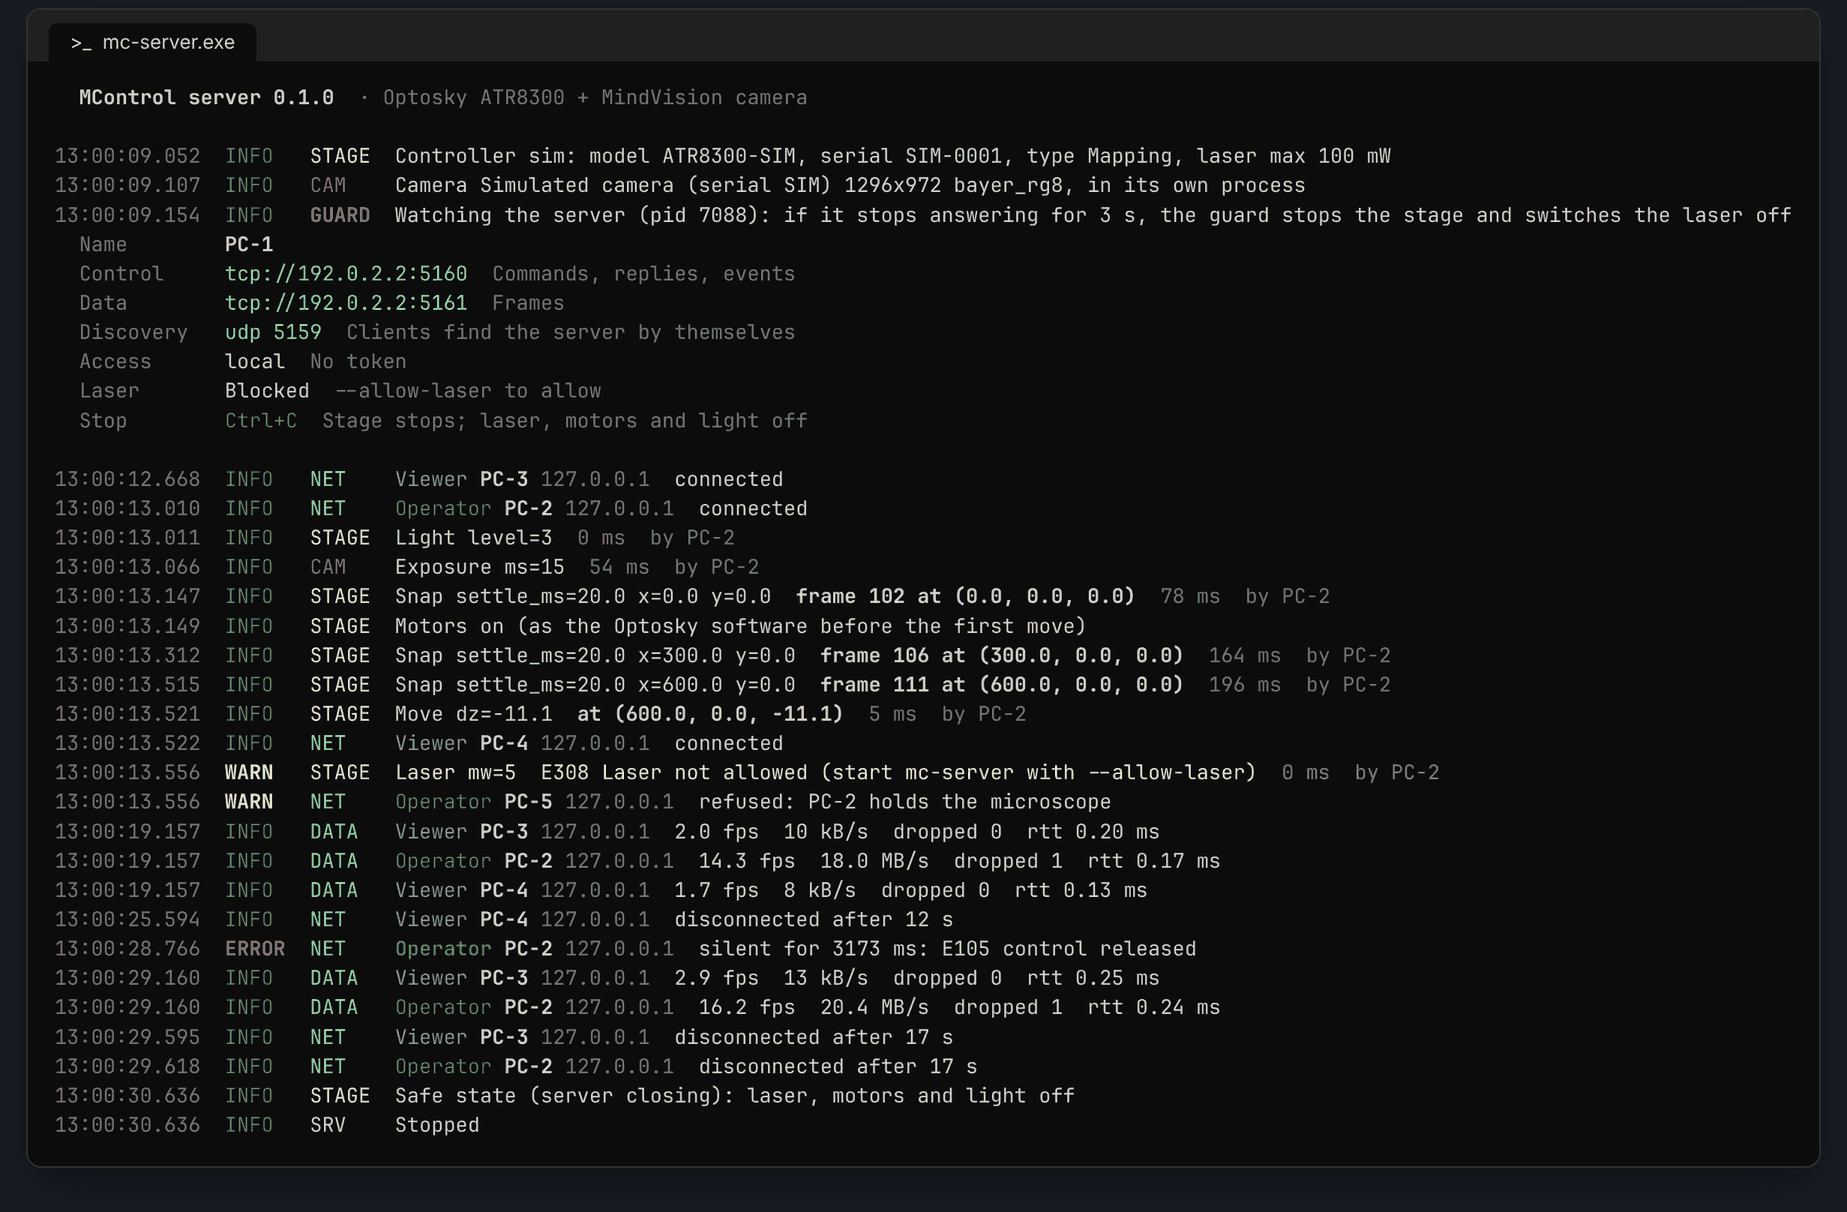
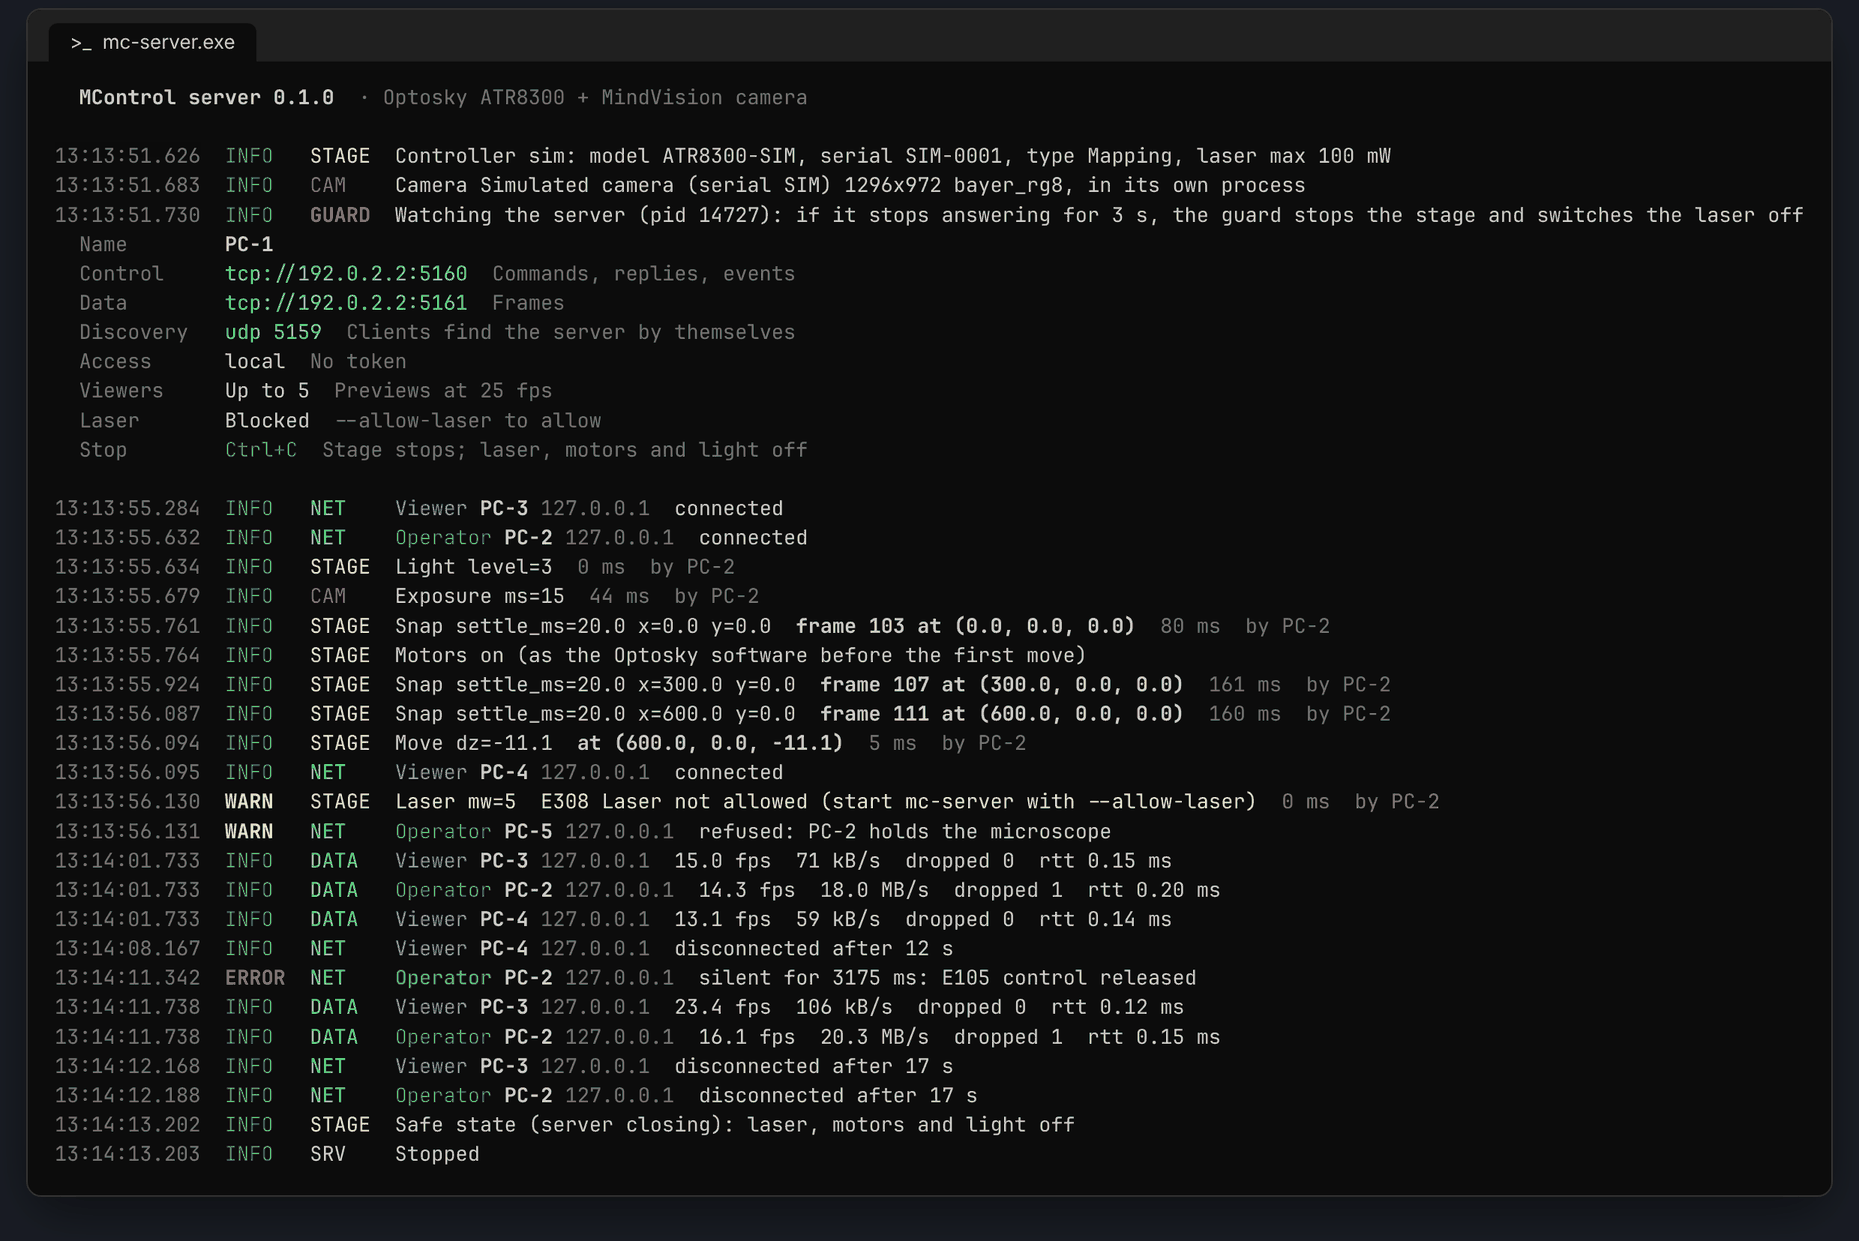
Viewers: previews at 25 fps by default (up to 30), at most 5 at a time (--max-viewers, E114)

diff --git a/docs/diagrams/diagrams.js b/docs/diagrams/diagrams.js
@@ -24,7 +24,7 @@ D.architecture = () => {
     "full RAW frames · snaps\nstage, light, laser, camera\n↓\nyour code: CUDA stitching, scans", { fill: "green", strong: true, size: 30 });
   B.frame(880, 520, 580, 340, "PC 3…N · viewers");
   const vw = B.box(920, 575, 500, 245, "Python: Viewer()",
-    "JPEG previews, 3 fps\nevery operator action as an event\nread-only", { fill: "yellow", strong: true, size: 30 });
+    "JPEG previews, up to 30 fps\nevery operator action as an event\nread-only, 5 at a time by default", { fill: "yellow", strong: true, size: 30 });
   B.arrow([760, 220], [920, 220], { both: true, label: "control :5160", dy: -18 });
   B.arrow([760, 300], [920, 300], { label: "frames :5161", dy: -18 });
   B.arrow([760, 340], [920, 690], { both: true, bend: "h", mid: 840 });
@@ -143,11 +143,11 @@ D.frames = () => {
   for (let i = 0; i < 6; i++) B.rect(372 + i * 40, 380, 30, 30, { fill: i === 5 ? "green" : "white" });
   B.arrow(c.r, r.l, { label: "frames" });
   const o = B.box(760, 130, 340, 130, "operator outbox", "RAW, newest wins\n+ snaps: never dropped", { fill: "green", size: 27 });
-  const v = B.box(760, 400, 340, 130, "viewer outboxes", "JPEG preview, 3 fps\nencoded once, shared by all", { fill: "yellow", size: 27 });
+  const v = B.box(760, 400, 340, 130, "viewer outboxes", "JPEG preview, 25 fps\nencoded once, shared by all", { fill: "yellow", size: 27 });
   B.arrow([640, 300], [760, 195], { bend: "h", mid: 700 }); B.arrow([640, 370], [760, 465], { bend: "h", mid: 700 });
   const p2 = B.box(1220, 140, 240, 110, "PC 2", "≈ 5 MB / frame", { fill: "green", size: 30 });
-  const p3 = B.box(1220, 410, 240, 110, "PC 3…N", "≈ 5 kB / frame", { fill: "yellow", size: 30 });
+  const p3 = B.box(1220, 410, 240, 110, "PC 3…N", "≈ 5–50 kB / frame", { fill: "yellow", size: 30 });
   B.arrow(o.r, p2.l, { label: "thread" }); B.arrow(v.r, p3.l, { label: "thread each" });
-  B.text(40, 620, "The limit is the network, not PC 1's CPU: 1 GbE ≈ 110 MB/s ≈ 20 RAW frames/s for the operator; 10 viewers at 3 fps take < 0.2 % of it.",
+  B.text(40, 620, "The limit is the network, not PC 1's CPU: 1 GbE ≈ 110 MB/s ≈ 20 RAW frames/s for the operator; 5 viewers at 25 fps take a few MB/s.",
     { size: 23, anchor: "start", color: "#444" });
 };

diff --git a/crates/mc-server/src/main.rs b/crates/mc-server/src/main.rs
@@ -47,7 +47,8 @@ OTHER
   --speed UM_S      real stage speed, um/s (default 3000)
   --ring N          frames kept for re-fetch (default 20)
   --dead-ms N       operator silent this long: stop stage, laser off (default 3000)
-  --viewer-fps F    preview frames per second for viewers (default 3)
+  --viewer-fps F    preview frames per second for viewers (default 25, at most 30)
+  --max-viewers N   viewers at the same time (default 5); the operator does not count
   --no-guard        do not start the guard process
   --log FILE        also write the log to FILE
   --no-color        plain log
@@ -240,7 +241,8 @@ fn main() {
         discovery_port,
         bind,
         dead_ms: arg("--dead-ms").and_then(|v| v.parse().ok()).unwrap_or(3000),
-        viewer_fps: arg("--viewer-fps").and_then(|v| v.parse().ok()).unwrap_or(3.0),
+        viewer_fps: arg("--viewer-fps").and_then(|v| v.parse().ok()).unwrap_or(25.0),
+        max_viewers: arg("--max-viewers").and_then(|v| v.parse().ok()).unwrap_or(5),
         access,
     };
     let ip = if bind.is_unspecified() { primary_ip() } else { bind.to_string() };
@@ -255,6 +257,7 @@ fn main() {
     }
     let scope = if a.is_open() { paint(YELLOW, &a.allow_text) } else { a.allow_text.clone() };
     row("Access", scope, if a.needs_token() { "Token required" } else { "No token" });
+    row("Viewers", format!("Up to {}", ncfg.max_viewers), &format!("Previews at {} fps", ncfg.viewer_fps));
     if a.operators_text != a.allow_text {
         row("Operators", a.operators_text.clone(), "Others connect as viewers");
     }

diff --git a/python/mcontrol/microscope.py b/python/mcontrol/microscope.py
@@ -123,6 +123,7 @@ class Cooler(_Part):
 class _Client:
     ROLE = "viewer"
     RAW = False
+    _fps = None                                 # preview rate asked by a Viewer
 
     def __init__(self, host=None, name=None, token=None, timeout=120.0):
         """host: "192.168.1.50", "pc-1:5170", "[fe80::1]"; omitted: MCONTROL_HOST, the last server used,
@@ -139,7 +140,7 @@ class _Client:
     def stream(self) -> Stream:
         """Data connection, opened on first use."""
         if self._stream is None:
-            self._stream = Stream(self.link, raw=self.RAW, live=not self.RAW)
+            self._stream = Stream(self.link, raw=self.RAW, live=not self.RAW, fps=self._fps)
         return self._stream
 
     def live(self, seconds=None, count=None, fps=None):
@@ -200,7 +201,12 @@ class _Client:
 
 
 class Viewer(_Client):
-    """Read-only: previews (JPEG), status, events. Any number of these."""
+    """Read-only: previews (JPEG), status, events. Up to --max-viewers at once (5 by default).
+    fps: preview rate wanted (the server's --viewer-fps by default, 25; at most 30)."""
+
+    def __init__(self, host=None, name=None, token=None, fps=None, timeout=120.0):
+        super().__init__(host, name, token, timeout)
+        self._fps = fps
 
     def fetch(self, seq=0):
         """One full frame from the ring (0 = newest), at most 1/s for viewers."""

diff --git a/tests/test_sim.py b/tests/test_sim.py
@@ -71,13 +71,17 @@ def test_roles(server):
 
 
 def test_many_viewers(server):
-    vs = [Viewer(HOST, name=f"v{i}") for i in range(8)]
+    vs = [Viewer(HOST, name=f"v{i}") for i in range(5)]   # the default limit
+    with pytest.raises(McError) as e:
+        Viewer(HOST, name="v6")
+    assert e.value.code == "E114"
     with Microscope(HOST) as m:
         n = sum(1 for _ in m.live(seconds=2))
-        assert n / 2 > 15                                  # raw stream keeps up while 8 viewers watch
+        assert n / 2 > 15                                  # raw stream keeps up while 5 viewers watch
         assert not m.stream.on                             # switched off after the loop
     for v in vs:
-        assert v.latest().is_preview
+        t, n = time.time(), sum(1 for _ in v.live(seconds=1))
+        assert v.latest().is_preview and n >= 15         # viewers get ~25 fps previews
         v.close()
 
 

diff --git a/crates/mc-proto/src/errors.rs b/crates/mc-proto/src/errors.rs
@@ -17,6 +17,7 @@ pub const TABLE: &[(&str, &str, &str, &str)] = &[
     ("E111", "net", "Address not allowed", "Add the client's address or network to --allow on the server"),
     ("E112", "net", "Wrong or missing token", "Give the server's token: Microscope(token=...) or MCONTROL_TOKEN"),
     ("E113", "net", "Control not allowed from this address", "Connect as viewer, or add the address to --operators on the server"),
+    ("E114", "net", "Too many viewers", "Close a viewer, or start the server with a larger --max-viewers"),
     ("E120", "net", "Cannot listen on this address or port", "Another program uses the port, or the --bind address is not on this PC"),
     ("E121", "net", "Open beyond the local network without a token", "Give --token, or keep --allow to local networks"),
     // stage

diff --git a/crates/mc-server/src/net.rs b/crates/mc-server/src/net.rs
@@ -71,6 +71,7 @@ pub struct Cfg {
     pub bind: IpAddr,
     pub dead_ms: u64,
     pub viewer_fps: f64,
+    pub max_viewers: usize,
     pub access: Access,
 }
 
@@ -213,6 +214,10 @@ impl Server {
             Some(McError::new("E112", ""))
         } else if role == Role::Operator && !a.may_operate(&addr.ip()) {
             Some(McError::new("E113", addr.ip().to_string()))
+        } else if role == Role::Viewer
+            && self.sessions.lock().unwrap().iter().filter(|s| s.role == Role::Viewer).count() >= self.cfg.max_viewers
+        {
+            Some(McError::new("E114", format!("{} at most", self.cfg.max_viewers)))
         } else {
             None
         };

diff --git a/python/mcontrol/stream.py b/python/mcontrol/stream.py
@@ -15,8 +15,8 @@ from .wire import DATA_PORT, K_FRAME, Wire
 class Stream:
     KEEP = 16                                   # frames kept for frame(seq)
 
-    def __init__(self, link, raw: bool, live: bool):
-        self.link, self.raw, self.on, self.fps = link, raw, live, None
+    def __init__(self, link, raw: bool, live: bool, fps=None):
+        self.link, self.raw, self.on, self.fps = link, raw, live, fps
         self.latest = None                      # newest frame
         self._kept = {}                         # (seq, is_preview) -> Frame
         self._cv = threading.Condition()

diff --git a/python/mcontrol/link.py b/python/mcontrol/link.py
@@ -98,7 +98,7 @@ class Link:
             if not r.get("ok"):
                 w.close()
                 e = McError.from_reply(r.get("error", {}))
-                if e.code in ("E103", "E111", "E112", "E113"):   # the server said no: final
+                if e.code in ("E103", "E111", "E112", "E113", "E114"):   # the server said no: final
                     raise e
                 errors.append(f"{h}: {e}")        # not a control port (e.g. a remembered port that moved)
                 continue

diff --git a/README.md b/README.md
@@ -6,7 +6,7 @@ Control an **Optosky ATR8300** microscope (stage, focus, light, laser, TEC) and 
 
 * **One exe** on the microscope PC, nothing to install there apart from the MindVision SDK. A colour log shows who is connected and what is sent.
 * **Full resolution, fast.** Raw Bayer frames are sent as the sensor gives them: no conversion on PC 1. Each frame carries the stage position at mid-exposure and the time on the shared clock.
-* **One operator, many viewers.** The operator holds a lease. Viewers are read-only and get small JPEG previews, encoded once per frame and shared by all of them. Every action of the operator is sent to all clients as an event, so viewers see what is done, by whom, and what came out.
+* **One operator, many viewers.** The operator holds a lease. Viewers are read-only and get JPEG previews at up to 30 fps (25 by default), encoded once per frame and shared by all of them; 5 viewers at a time by default (`--max-viewers`). Every action of the operator is sent to all clients as an event, so viewers see what is done, by whom, and what came out.
 * **Local network by default.** Only local addresses may connect unless you say otherwise; see [Network and security](#network-and-security).
 * **Safe.** If the operator goes silent, the stage stops and the laser goes off. A separate guard process does the same over COM if the server itself hangs or dies.
 * **Stable client.** The Python client finds the server and remembers it, and reconnects by itself. It repeats a command after a reconnect only when repeating is harmless (`goto`, settings, reads); relative moves are never repeated.
@@ -72,7 +72,7 @@ Viewer().watch()          # prints every operator action, like the server log
 | Object | What |
 |---|---|
 | `Microscope()` / `Microscope("192.168.1.50")` | operator. Without an address: `MCONTROL_HOST`, then the last server used, then LAN discovery |
-| `Viewer()` | read-only: previews, events, `fetch()` = one full frame per second |
+| `Viewer(fps=25)` | read-only: previews (`live()`, `latest()`), events, `fetch()` = one full frame per second |
 | `Microscope(token="...")` | only when the server asks for a token (or `MCONTROL_TOKEN`); remembered per server |
 | `m.stage` | `position`, `goto(x,y,z)`, `move(dx,dy,dz)`, `stop()`, `zero()`, `confirm()`, `motors(on)` |
 | `m.camera` | `exposure_ms`, `gain`, `auto_exposure(on)`, `white_balance()`, `state` |
@@ -96,6 +96,7 @@ The emphasis is the local network; reaching the microscope from outside is possi
 | `--discovery-port`, `--no-discovery` | UDP 5159 by default. Without discovery clients give the address: `Microscope("192.168.1.10:5160")` |
 | `--allow LIST` | who may connect: `local` (default: loopback, 10/8, 172.16/12, 192.168/16, 169.254/16, 100.64/10, IPv6 local), `any`, addresses, ranges `203.0.113.0/24` |
 | `--operators LIST` | who may take control (default: same as `--allow`); everybody else can only watch |
+| `--max-viewers N`, `--viewer-fps F` | viewers at the same time (default 5) and their preview rate (default 25, at most 30) |
 | `--token TEXT` | shared secret (or env `MC_TOKEN`). Required when `--allow` goes beyond local networks: the server refuses to start otherwise (E121) |
 
 Options can live in `mc-server.conf` next to the exe, one per line, so nobody types them twice:
@@ -113,7 +114,7 @@ allow-laser = false
 * Only addresses in `--allow` get an answer; only addresses in `--operators` may control; a token if set; one operator at a time.
 * The controller only receives the known Optosky commands (E305 for anything else), stage moves stay inside the soft limits, the laser is blocked unless the server is started with `--allow-laser`, and never above the controller's maximum.
 * Operator silent for 3 s: stage stops, laser off. Server hung: the guard process does the same over COM.
-* Session ids are random, commands are limited to 64 kB, viewers are rate-limited.
+* Session ids are random, commands are limited to 64 kB, viewers are limited in number (`--max-viewers`, 5) and in full-frame requests.
 
 ![When something breaks](docs/img/safety.png)
 
@@ -137,6 +138,7 @@ Each error is an `McError` with a `code`; the server log shows the same codes. G
 | E111 | net | Address not allowed | Add the client's address or network to --allow on the server |
 | E112 | net | Wrong or missing token | Give the server's token: Microscope(token=...) or MCONTROL_TOKEN |
 | E113 | net | Control not allowed from this address | Connect as viewer, or add the address to --operators on the server |
+| E114 | net | Too many viewers | Close a viewer, or start the server with a larger --max-viewers |
 | E120 | net | Cannot listen on this address or port | Another program uses the port, or the --bind address is not on this PC |
 | E121 | net | Open beyond the local network without a token | Give --token, or keep --allow to local networks |
 | E201 | stage | Outside the soft limits | Stay inside the stage range (mc-server --help shows the limits) |
